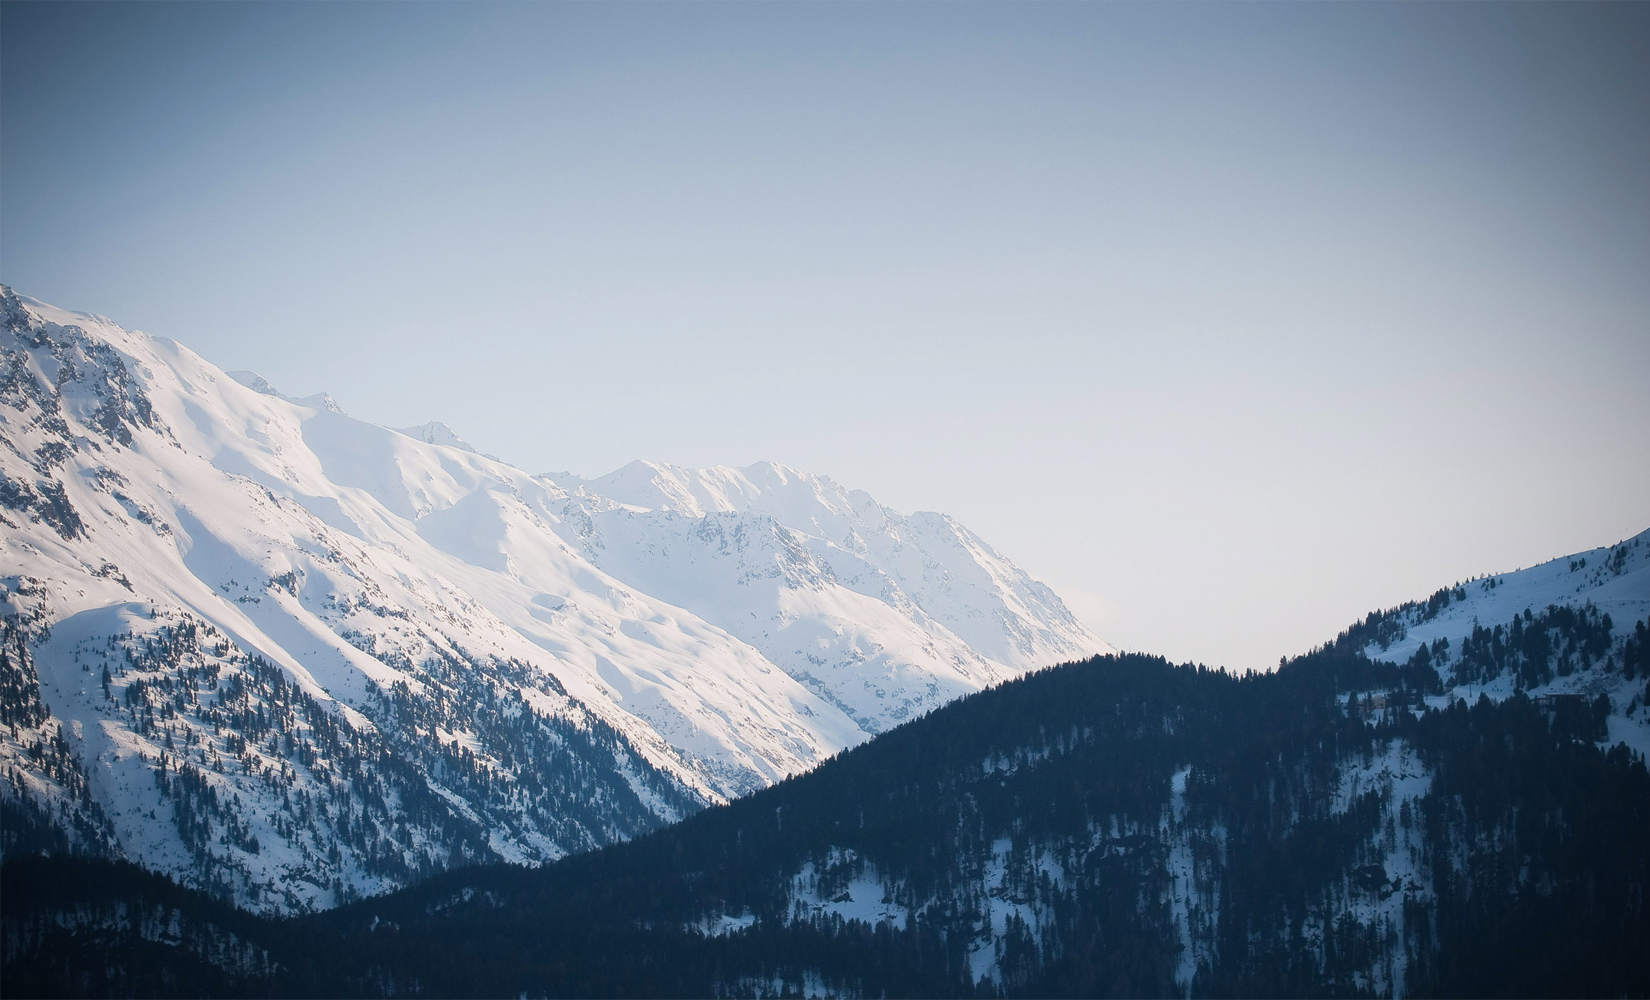
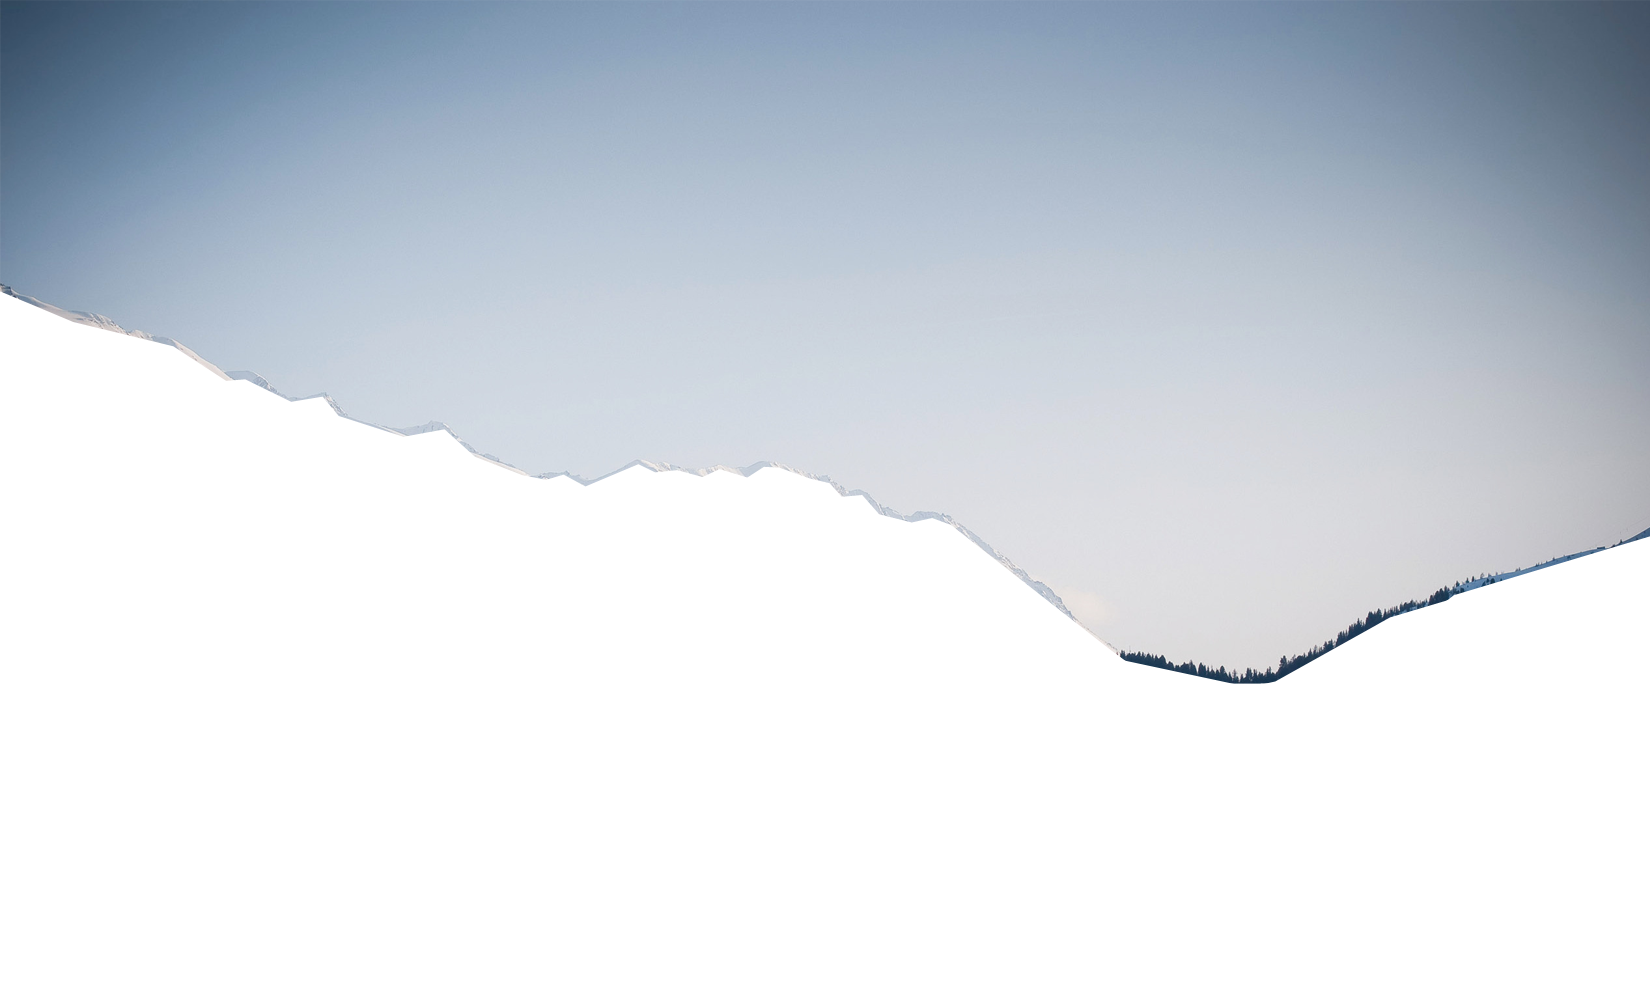
background layers cut to reduce size

diff --git a/pavelpigalev/protected/controllers/MainController.php b/pavelpigalev/protected/controllers/MainController.php
@@ -7,7 +7,7 @@ class MainController extends MyController
     {
         $this->layout = '//layouts/index-layout';
 
-        $this->_app->cache->delete('mainPageCache');
+//        $this->_app->cache->delete('mainPageCache');
 
         $cache = $this->_app->cache->get('mainPageCache');
 
